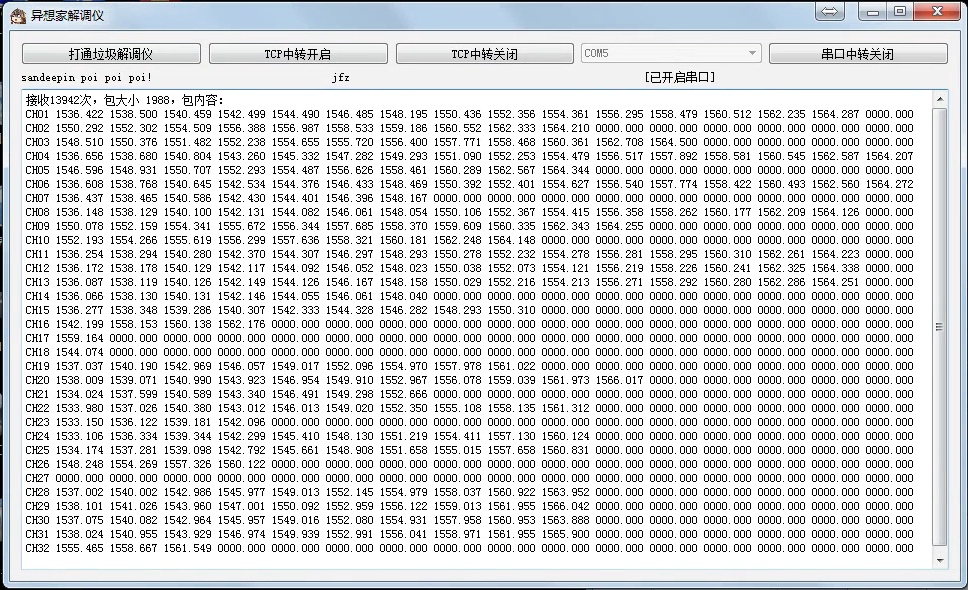
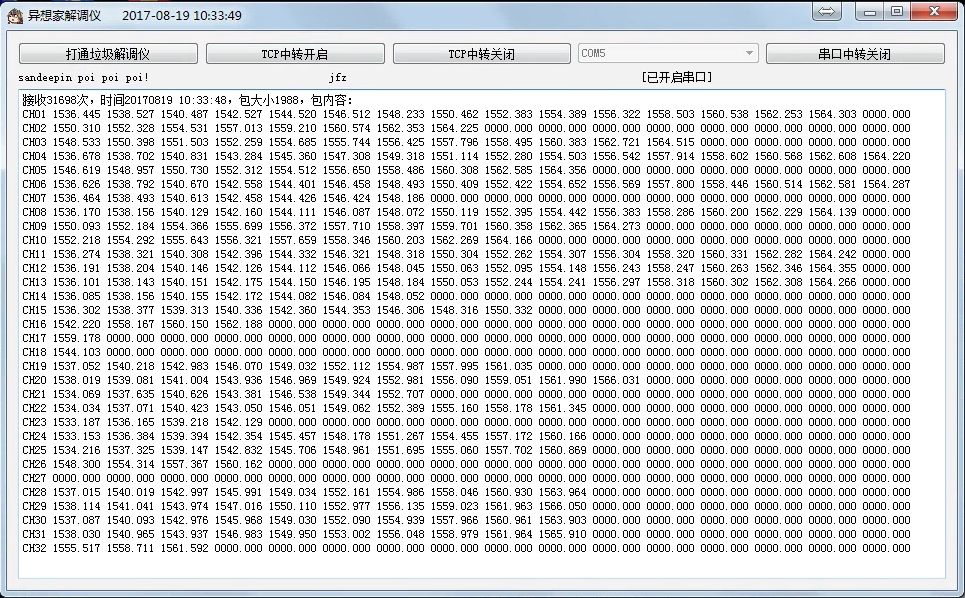
软件改名

diff --git a/README.md b/README.md
@@ -1,5 +1,5 @@
-# JfzInterrogator
-异想家重写的理工光科解调仪上位机。
+# JfzDemodulator
+异想家重写的理工光科解调仪上位机
 
 ### 说明
 
@@ -20,7 +20,8 @@
 
 #### 2017-08-19
 
-* 增加时间显示，先观察什么时候程序不稳定。
+* 增加时间显示，好观察什么时候程序不稳定。
+* 软件更名，Demodulator才是解调仪的意思。
 
 #### 2017-08-18
 
